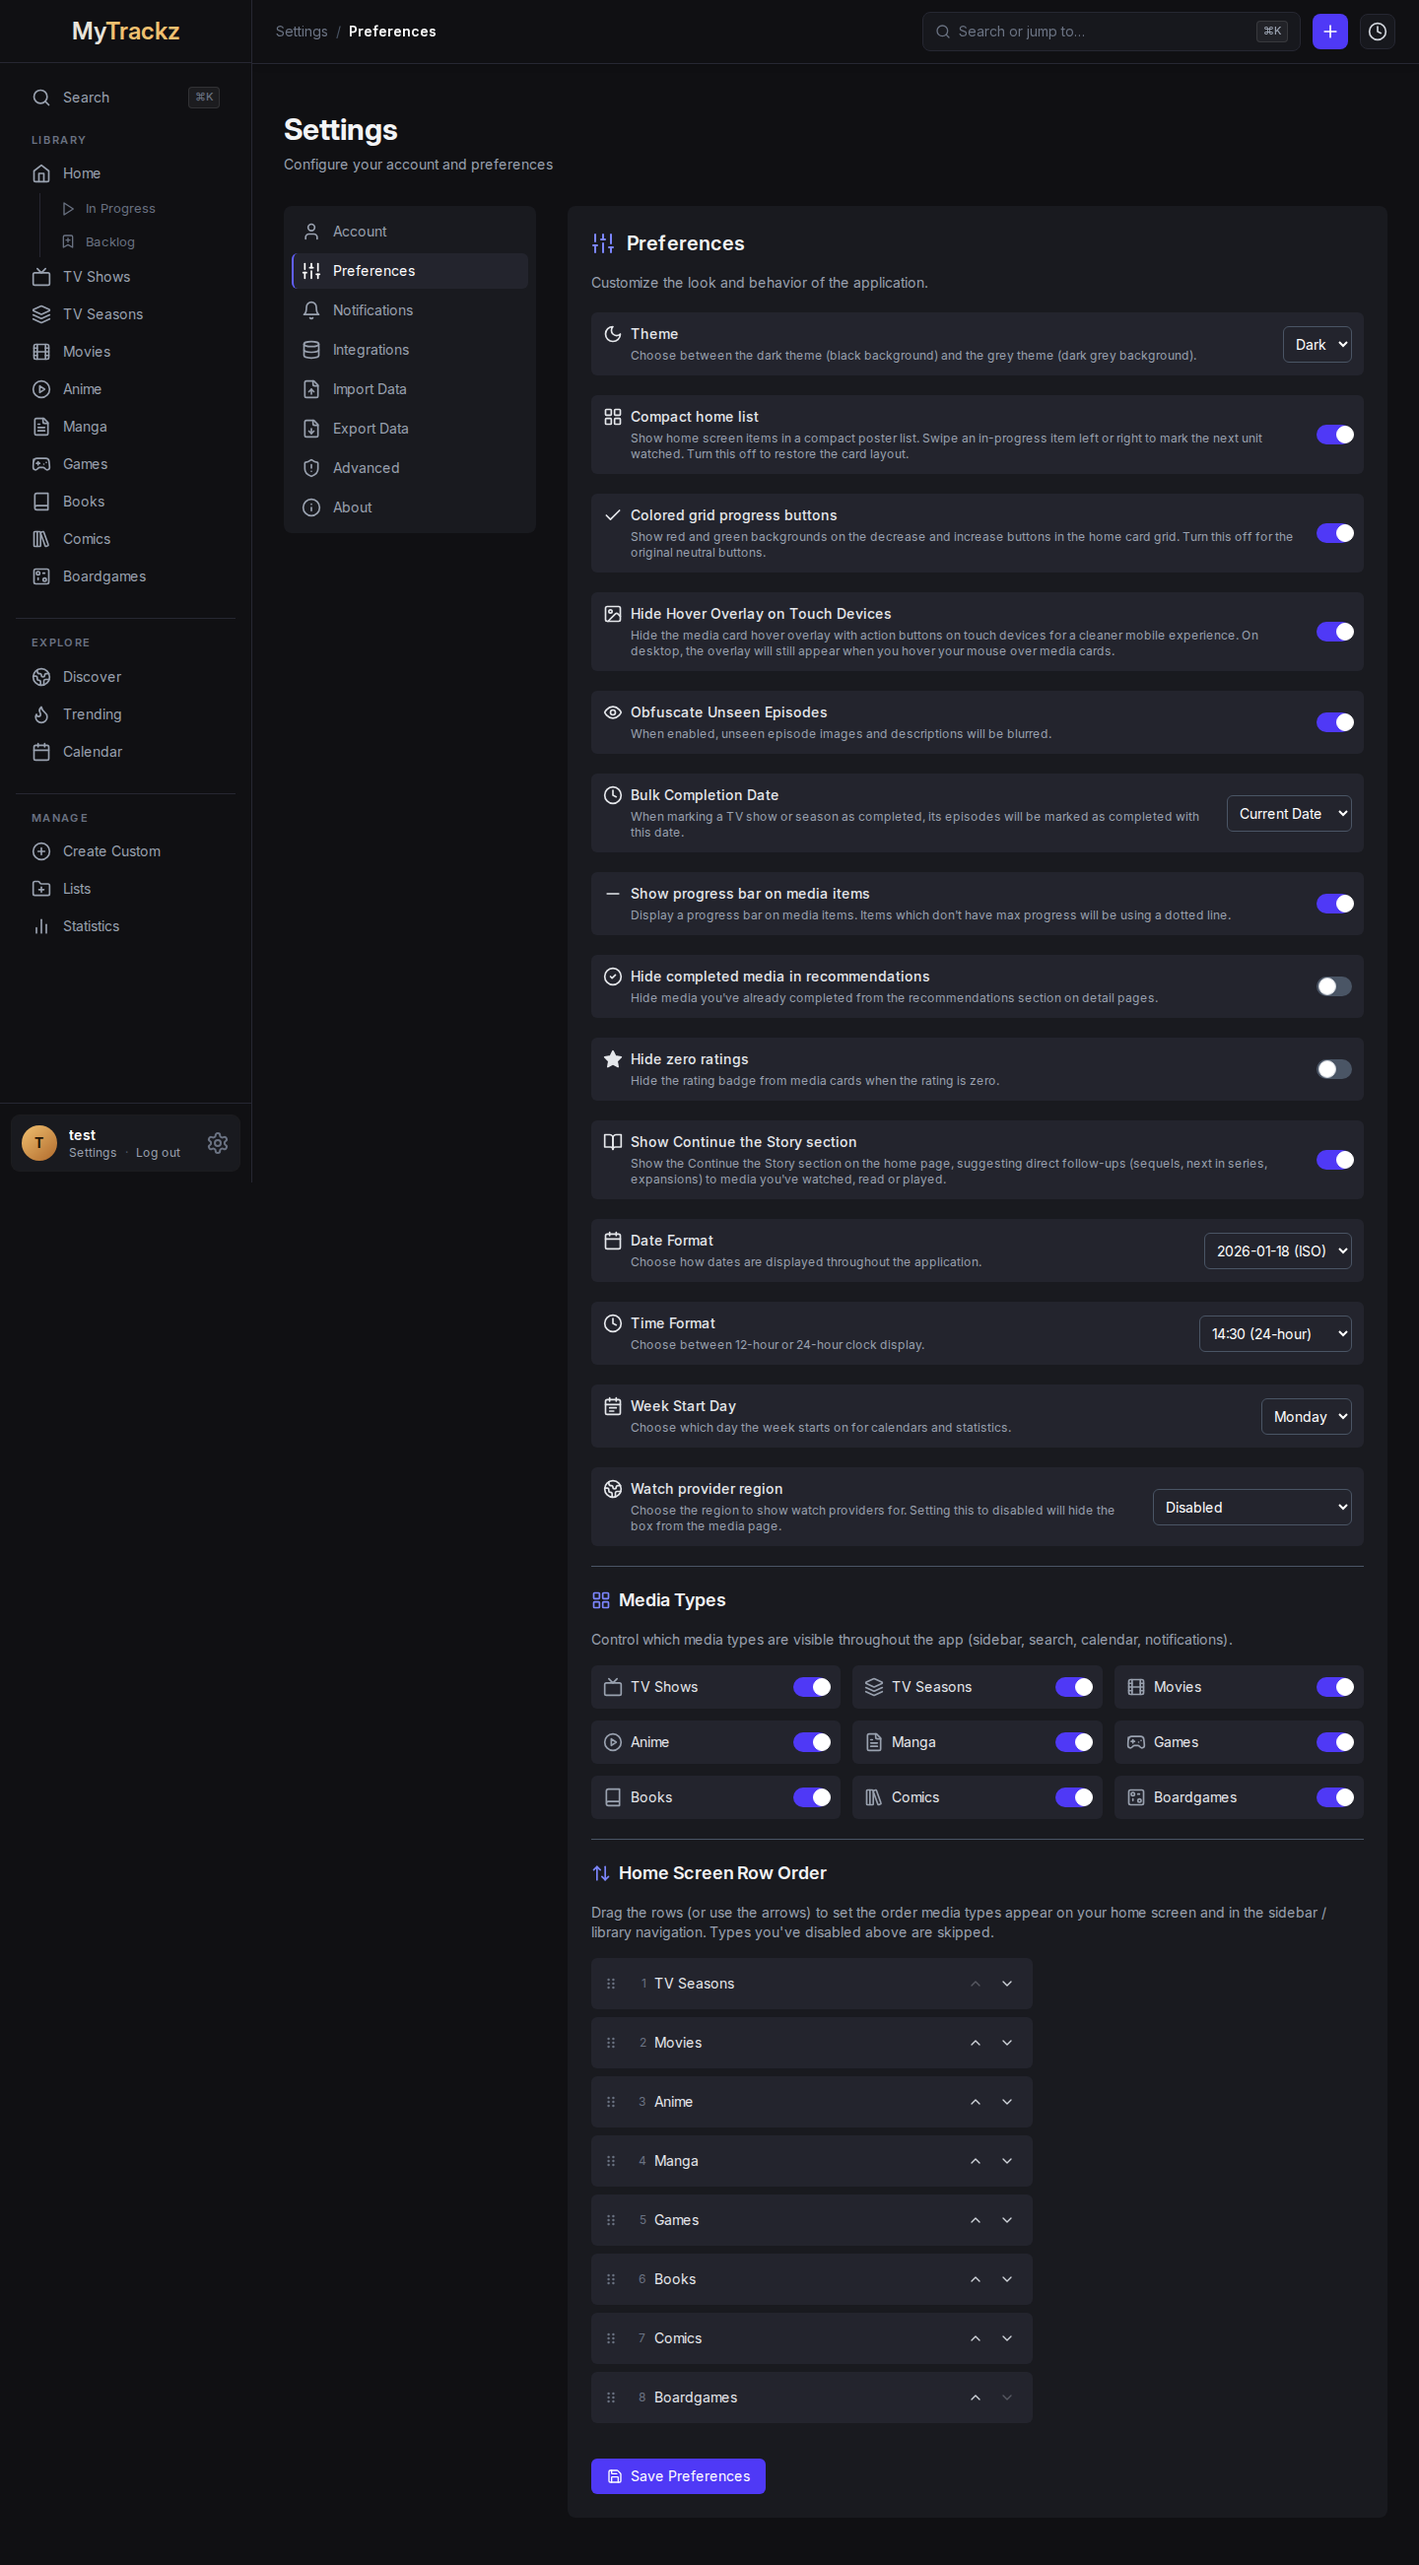
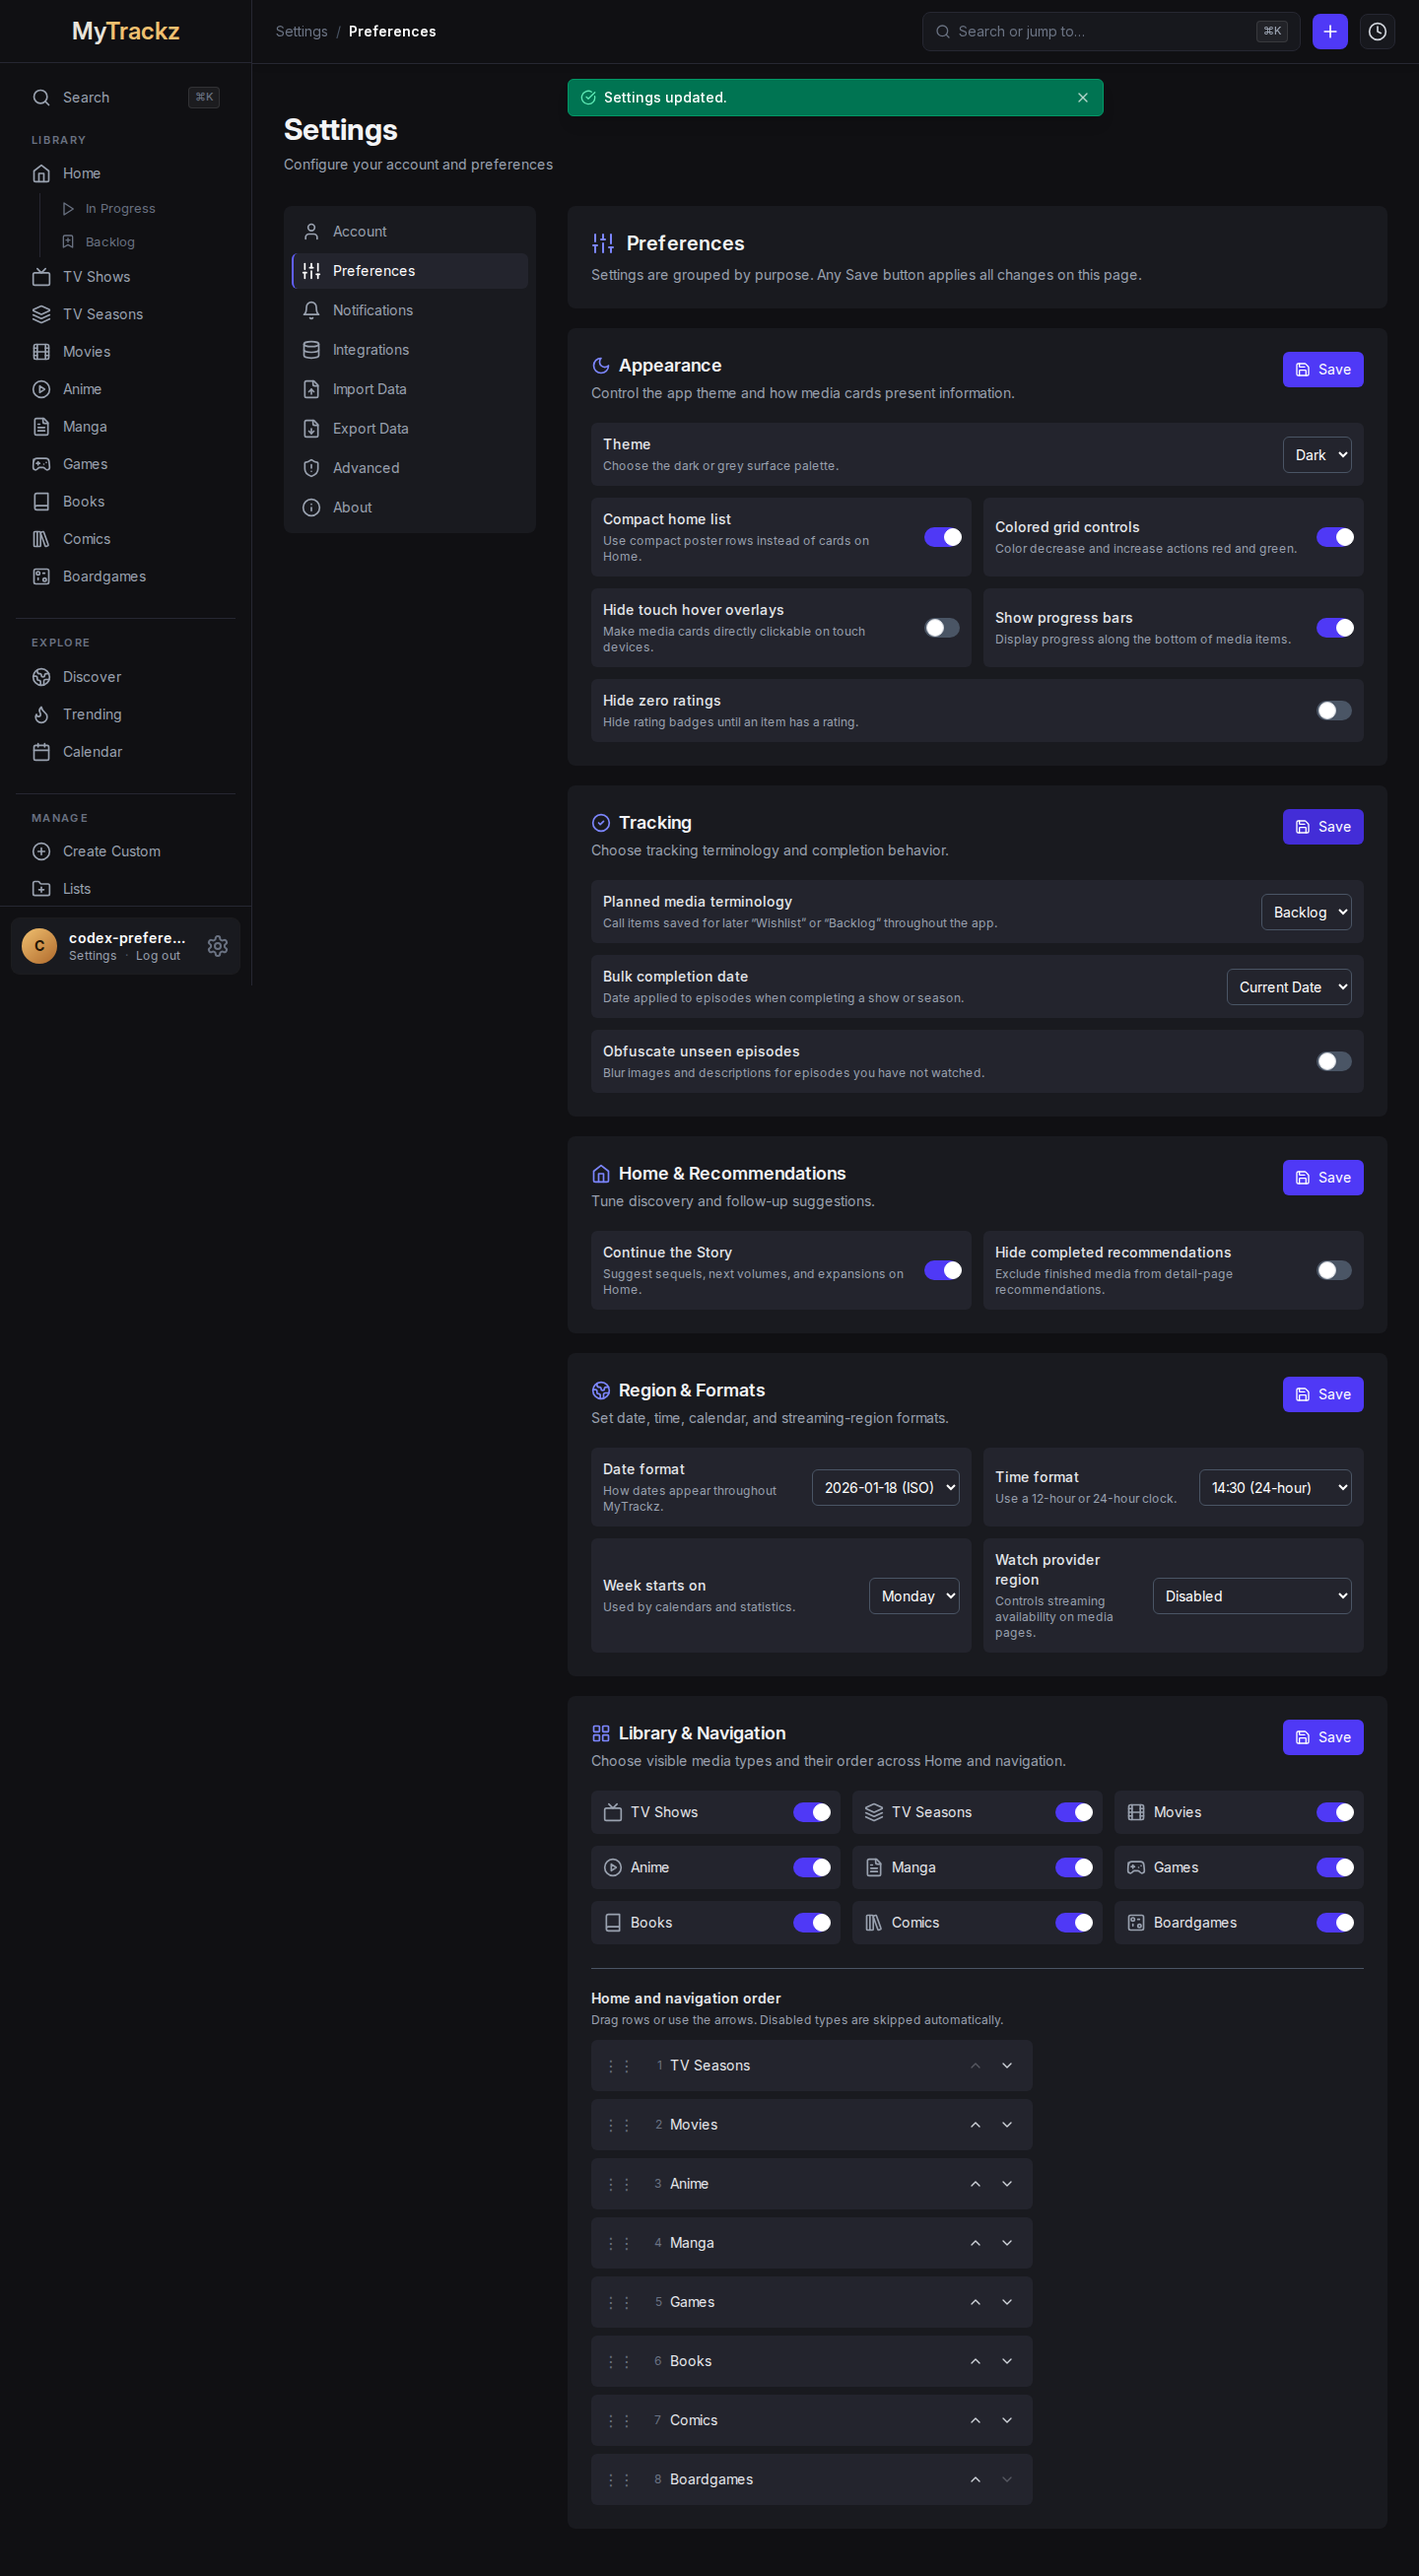
Document recent UI and PWA updates
Refresh the README feature documentation for the grouped Preferences experience, updated mobile grid navigation, improved PWA support, and Codex attribution. Replace the stale Preferences screenshot with the current grouped-settings capture and clean up duplicate feature entries and screenshot labels.

Validation:

- git diff --check: passed

- Ruff: passed in isolated temporary environment

- makemigrations --check: passed

- Full native test gate: blocked by unavailable external API DNS in the sandbox

- Test deployment: not run because the required native gate was blocked

diff --git a/README.md b/README.md
@@ -9,7 +9,7 @@ MyTrackz is a self-hosted media tracker for movies, tv shows, anime, manga, vide
 
 It's a personal fork of [Yamtrack](https://github.com/FuzzyGrim/Yamtrack), rebranded and extended with a redesigned UI plus a handful of features not available upstream: local image caching, personalized recommendations ("Discover"), a global "Trending" page, a "Continue the Story" home widget, custom poster images, a genre filter, and a compact home list with aired-only filtering.
 
-Every fork-only addition (marked ⭐ below) was designed and implemented by [Claude Code](https://claude.com/claude-code).
+Every fork-only addition (marked ⭐ below) was designed and implemented with [Claude Code](https://claude.com/claude-code) and [Codex](https://openai.com/codex/).
 
 <!-- --8<-- [end:docs-index-intro] -->
 
@@ -44,6 +44,8 @@ Everything from upstream Yamtrack, plus this fork's own additions (marked ⭐).
 - ⏱ Fine-grained preferences: a "quick watch date" mode for one-tap episode/season tracking, plus independent date format, 12/24-hour time format, and first-day-of-week settings.
 - 🗓 Calendar grid/list layout toggle and a manual "reload" to refresh upcoming release dates on demand.
 - 🔐 Regenerate your personal webhook/ICS token any time, with granular controls for which Jellyfin events (play/stop, manual mark played/unplayed) and which Plex usernames are processed.
+- 📲 ⭐ **Improved PWA support** — Android installation and offline behavior are more reliable, with an offline fallback page.
+- 🛠 ⭐ **Grouped preferences** — organize appearance, tracking, home recommendations, region and formats, and library navigation settings, with configurable Wishlist or Backlog terminology.
 - 🏠 ⭐ **Compact home list** — switch the home screen from poster cards to a compact, swipeable list with episode details and one-tap progress controls.
 - 📡 ⭐ **Aired-only home filter** — hide caught-up episodic shows until their next episode airs, with a single toggle beside the home sort control.
 - 🎨 ⭐ **Colored grid progress buttons** — optionally use clear red/green backgrounds for decrease/increase progress actions in the home card grid.
@@ -53,7 +55,7 @@ Everything from upstream Yamtrack, plus this fork's own additions (marked ⭐).
 - 📚 ⭐ **"Continue the Story" home widget** — surfaces direct follow-ups (sequels, next volumes, expansions, remasters) for media you've recently finished or are still working through. Can be toggled on/off in Settings → Preferences.
 - 🖌 ⭐ **Custom poster images** — replace any item's poster with your own image URL, with one click to revert to the original.
 - 🏷 ⭐ **Genre filter** — filter your media lists by genre, sourced automatically from provider metadata.
-- 🎨 ⭐ **Redesigned UI** — liquid-glass mobile bottom nav with a morphing library panel, and a one-tap "Mark watched" control for movies.
+- 🎨 ⭐ **Redesigned UI** — liquid-glass mobile bottom nav with an updated media-type grid and morphing library panel, plus a one-tap "Mark watched" control for movies.
 - 🖱 ⭐ **Hover-lift media cards** — cards scale up and lift with a soft shadow on hover, revealing unified quick-action icons (mark watched, add to lists, view history) right on the poster.
 - 🔎 ⭐ **Command palette search** — press <kbd>⌘K</kbd> (or <kbd>/</kbd>) anywhere to pull up a jump-to search modal, scoped to a media type, without leaving the page.
 - 🖼 ⭐ **Profile images** — set an avatar from any image URL, with a circular drag-and-zoom cropper; downloaded and cached locally like everything else.
@@ -66,17 +68,17 @@ Everything from upstream Yamtrack, plus this fork's own additions (marked ⭐).
 | ------------------------------------------------------------------ | ------------------------------------------------------------ |
 | ![Homepage](docs/assets/screenshots/homepage.webp)                 | ![Command Palette](docs/assets/screenshots/search_modal.webp) |
 
-| Grid Mobile Navigation ⭐                                            | Mobile Grid Library Panel ⭐                                  |
+| Updated Grid Mobile Navigation ⭐                                     | Updated Mobile Grid Library Panel ⭐                         |
 | ---------------------------------------------------------------------- | -------------------------------------------------------------- |
-| ![Grid Mobile Navigation](docs/assets/screenshots/mobile_home.webp)     | ![Mobile Grid Library Panel](docs/assets/screenshots/mobile_library_panel.webp) |
+| ![Updated Grid Mobile Navigation](docs/assets/screenshots/mobile_home.webp)     | ![Updated Mobile Grid Library Panel](docs/assets/screenshots/mobile_library_panel.webp) |
 
 | Mobile Compact Home List ⭐                                           | Swipe to Mark the Next Unit Watched ⭐                         |
 | ---------------------------------------------------------------------- | ------------------------------------------------------------------ |
 | ![Mobile compact home list](docs/assets/screenshots/mobile_home_list.png) | ![Swipe gesture revealing the mark-watched action](docs/assets/screenshots/mobile_home_list_swipe.png) |
 
-| Compact Home List + Aired Only ⭐                                     | Preferences ⭐                                                   |
+| Compact Home List + Aired Only ⭐                                     | Grouped Preferences ⭐                                           |
 | ---------------------------------------------------------------------- | ------------------------------------------------------------------ |
-| ![Compact home list with Aired only](docs/assets/screenshots/home_list_aired_only.png) | ![Preferences](docs/assets/screenshots/settings_preferences.png) |
+| ![Compact home list with Aired only](docs/assets/screenshots/home_list_aired_only.png) | ![Grouped Preferences](docs/assets/screenshots/settings_preferences.png) |
 
 | Discover ⭐                                                          | Trending ⭐                                                     |
 | ---------------------------------------------------------------------- | -------------------------------------------------------------- |
@@ -132,6 +134,6 @@ See `docs/development.md` in this repo, or `CLAUDE.md` for the fork-specific arc
 
 MyTrackz is a personal fork of [Yamtrack](https://github.com/FuzzyGrim/Yamtrack) by [FuzzyGrim](https://github.com/FuzzyGrim). All of the core tracking functionality and most of the codebase comes from that upstream project — go star it, and if you don't need any of the fork-only features above, you're probably better served running Yamtrack directly.
 
-All of the ⭐ fork-only features — image caching, Discover, Trending, Continue the Story, custom poster images, genre filter, the redesigned UI, command palette, profile images, compact home lists, Aired-only filtering, colored progress controls, home row ordering, and cache management — were built by [Claude Code](https://claude.com/claude-code).
+All of the ⭐ fork-only features — image caching, Discover, Trending, Continue the Story, custom poster images, genre filter, the redesigned UI, command palette, profile images, compact home lists, Aired-only filtering, colored progress controls, home row ordering, cache management, grouped preferences, and PWA improvements — were built with [Claude Code](https://claude.com/claude-code) and [Codex](https://openai.com/codex/).
 
 <!-- --8<-- [end:docs-index-body] -->
